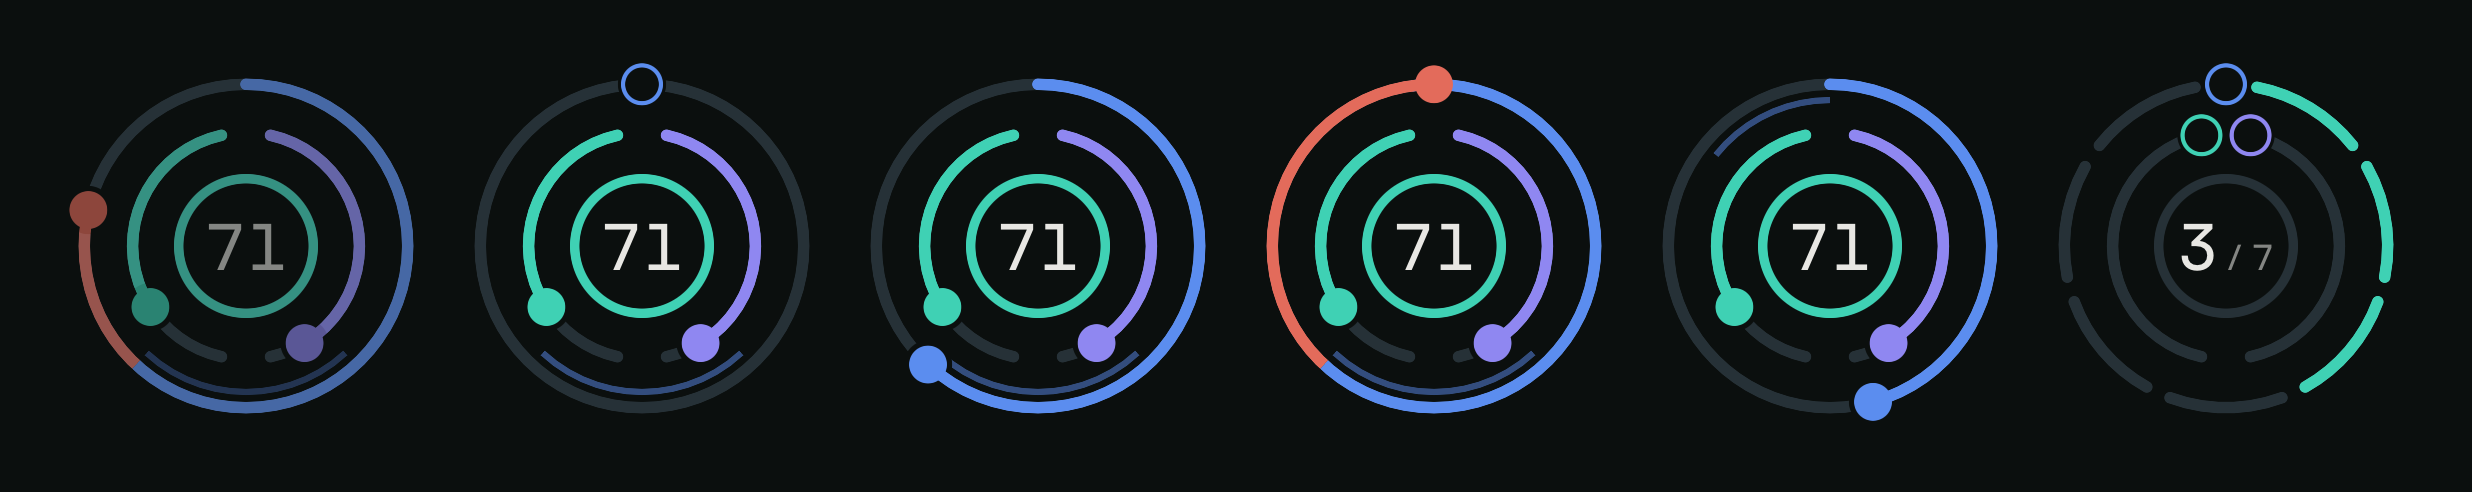
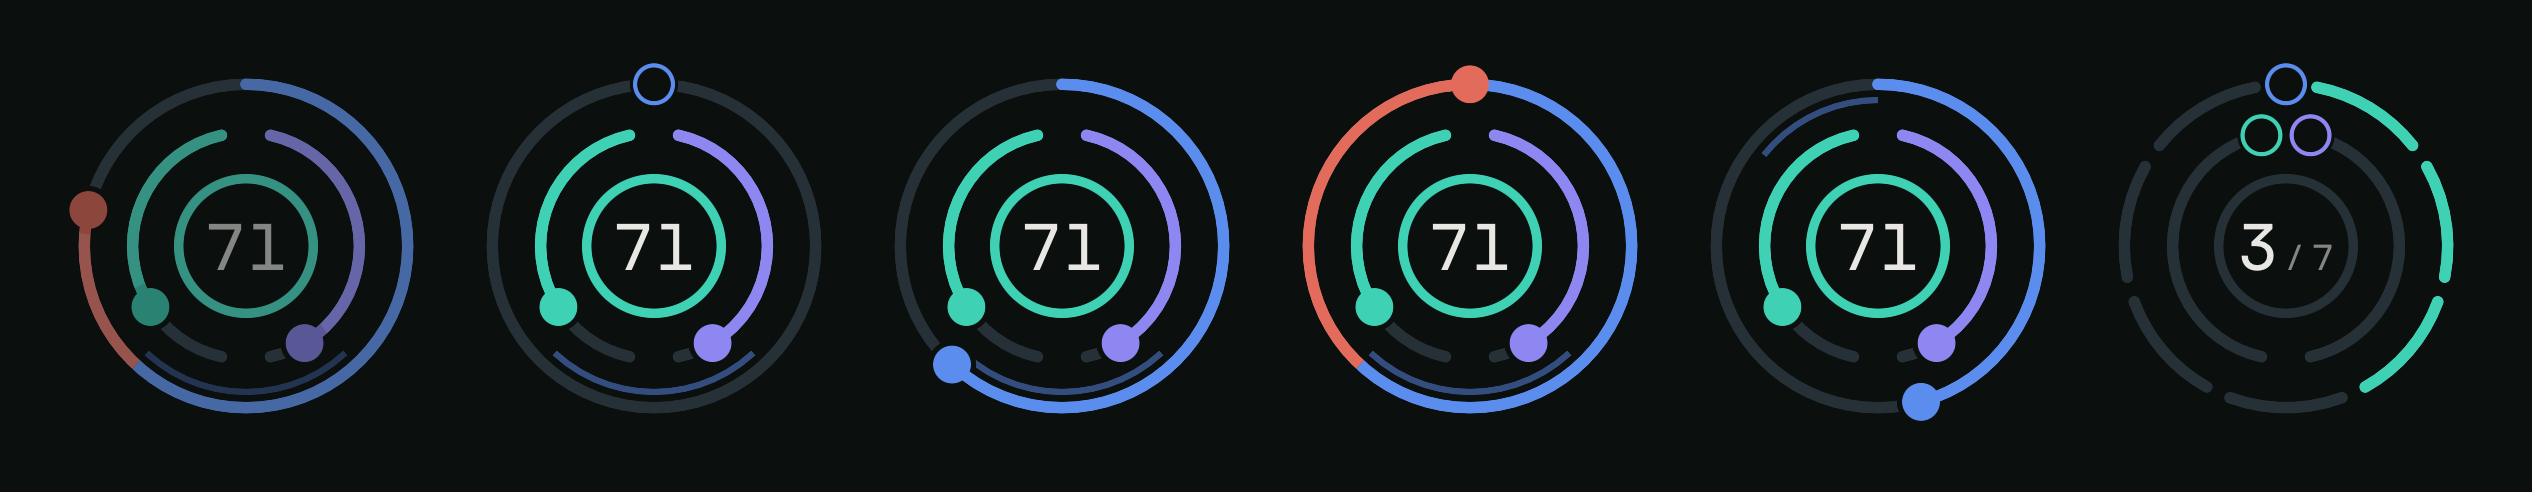
design: strain band animates as one structure, rail cut follows the dot, above-range sentence

diff --git a/Shared/OrbitGaugeDrawing.swift b/Shared/OrbitGaugeDrawing.swift
@@ -143,7 +143,7 @@ struct OrbitGaugeMarks: View {
             // The strain band's rail under the outer orbit's marks; nothing without a band, a dial with room, or values.
             if let values, OrbitGaugeGeometry.drawsBandRail(values.strainBand, dial: dial) {
                 OrbitGaugeBandRail(band: values.strainBand, dial: dial, colour: palette.strain,
-                                   cut: (degrees: OrbitGaugeGeometry.Orbit.strain.headDegrees(for: values.strainFraction ?? 0),
+                                   cut: (start: 0, sweep: OrbitGaugeGeometry.Orbit.strain.sweep(for: values.strainFraction ?? 0),
                                          radius: m.outerRadius))
             }
             ForEach(OrbitGaugeGeometry.Orbit.allCases, id: \.self) { orbit in
@@ -151,7 +151,7 @@ struct OrbitGaugeMarks: View {
                     segments(calibration, m)
                 }
                 marks(orbit, fraction: values.flatMap { orbit.fraction(of: $0) },
-                      past: orbit == .strain ? values.flatMap { OrbitGaugeGeometry.strainPastBandDegrees(strain: $0.strain, band: $0.strainBand) } : nil,
+                      split: orbit == .strain ? values.flatMap { OrbitGaugeGeometry.strainSplitDegrees(band: $0.strainBand) } : nil,
                       m)
             }
             if let values {
@@ -179,21 +179,24 @@ struct OrbitGaugeMarks: View {
     }
 
     @ViewBuilder
-    private func marks(_ orbit: OrbitGaugeGeometry.Orbit, fraction: Double?, past: Double?,
+    private func marks(_ orbit: OrbitGaugeGeometry.Orbit, fraction: Double?, split: Double?,
                        _ m: OrbitGaugeGeometry.Metrics) -> some View {
         let colour = palette.colour(of: orbit)
         if let fraction {
-            if let past {
-                // Strain beyond today's band: the same arc, turned toward alert past the band's upper end.
+            if let split {
+                // A usable band: one structure whatever the strain is, so a change that crosses the band's end moves
+                // the arc and the dot's colour with it (`OrbitStrainArc`, `OrbitStrainDot`).
                 OrbitStrainArc(radius: m.radius(of: orbit), stroke: m.stroke(of: orbit),
-                               sweep: orbit.sweep(for: fraction), split: past, plain: colour, past: palette.strainPastBand)
+                               sweep: orbit.sweep(for: fraction), split: split, plain: colour, past: palette.strainPastBand)
+                OrbitStrainDot(radius: m.radius(of: orbit), sweep: orbit.sweep(for: fraction), dotRadius: m.dotRadius,
+                               split: split, plain: colour, past: palette.strainPastBand)
             } else {
                 OrbitArc(radius: m.radius(of: orbit), start: orbit.startDegrees, sweep: orbit.sweep(for: fraction))
                     .stroke(colour, style: StrokeStyle(lineWidth: m.stroke(of: orbit), lineCap: .round))
+                OrbitDot(radius: m.radius(of: orbit), start: orbit.startDegrees, sweep: orbit.sweep(for: fraction),
+                         dotRadius: m.dotRadius)
+                    .fill(colour)
             }
-            OrbitDot(radius: m.radius(of: orbit), start: orbit.startDegrees, sweep: orbit.sweep(for: fraction),
-                     dotRadius: m.dotRadius)
-                .fill(past == nil ? colour : palette.strainPastBand)
         } else {
             OrbitDot(radius: m.radius(of: orbit), start: orbit.startDegrees, sweep: 0, dotRadius: m.dotRadius)
                 .stroke(colour, lineWidth: m.hollowStroke)
@@ -224,14 +227,14 @@ extension OrbitGaugeGeometry.Orbit {
 // MARK: strain band (PR 4)
 
 /// The band's rail: a thin butt-capped arc inside the outer orbit, `metricStrain` at `bandRailOpacity`, with the air around
-/// the strain dot cut out of it the way the tracks are (`cut`: where the dot is, degrees and radius of its orbit).
+/// the strain dot cut out of it the way the tracks are (`cut`: the dot's start and sweep on its orbit, like the tracks').
 /// Draws nothing for an empty band.
 struct OrbitGaugeBandRail: View {
     let band: ClosedRange<Double>?
     let dial: CGFloat
     let colour: Color
     var opacity = OrbitGaugeGeometry.bandRailOpacity
-    let cut: (degrees: Double, radius: CGFloat)
+    let cut: (start: Double, sweep: Double, radius: CGFloat)
 
     var body: some View {
         let m = OrbitGaugeGeometry.metrics(forDial: dial)
@@ -239,7 +242,7 @@ struct OrbitGaugeBandRail: View {
             if let rail = OrbitGaugeGeometry.bandRail(for: band) {
                 OrbitArc(radius: m.bandRadius, start: rail.start, sweep: rail.sweep)
                     .stroke(colour.opacity(opacity), style: StrokeStyle(lineWidth: m.bandStroke, lineCap: .butt))
-                OrbitDot(radius: cut.radius, start: cut.degrees, sweep: 0, dotRadius: m.dotRadius + m.dotAir)
+                OrbitDot(radius: cut.radius, start: cut.start, sweep: cut.sweep, dotRadius: m.dotRadius + m.dotAir)
                     .fill(.black)
                     .blendMode(.destinationOut)
             }
@@ -248,10 +251,12 @@ struct OrbitGaugeBandRail: View {
     }
 }
 
-/// The strain arc beyond its band: one stroked arc drawn twice, `plain` up to `split` (degrees from the top) and `past`
-/// beyond it, each clipped to its side of a radial line, so the join is straight, the caps stay round at both ends and
-/// there is no fringe of one colour under the edge of the other.
-struct OrbitStrainArc: View {
+/// The strain arc with a band: one stroked arc drawn twice, `plain` up to `split` (the band's upper end, degrees from the
+/// top) and `past` beyond it, each clipped to its side of a radial line, so the join is straight, the caps stay round at
+/// both ends and there is no fringe of one colour under the edge of the other. Always this structure for a usable band,
+/// whatever the strain: it is `Animatable` in the sweep, so the past layer grows and shrinks with the arc and nothing swaps
+/// when a change crosses the band's end. Below the split the past layer is empty.
+struct OrbitStrainArc: View, Animatable {
     var radius: CGFloat
     var stroke: CGFloat
     var sweep: Double
@@ -259,25 +264,55 @@ struct OrbitStrainArc: View {
     var plain: Color
     var past: Color
 
+    var animatableData: Double {
+        get { sweep }
+        set { sweep = newValue }
+    }
+
     var body: some View {
         let arc = OrbitArc(radius: radius, start: 0, sweep: sweep)
             .stroke(style: StrokeStyle(lineWidth: stroke, lineCap: .round))
         ZStack {
             // The start cap reaches a few degrees before the top (it stays `plain`); the far end is under the dot.
             arc.foregroundStyle(plain).clipShape(OrbitWedge(from: -8, to: split))
-            arc.foregroundStyle(past).clipShape(OrbitWedge(from: split, to: min(sweep + 4, 357)))
+            if sweep > split {
+                arc.foregroundStyle(past).clipShape(OrbitWedge(from: split, to: min(sweep + 4, 357)))
+            }
         }
     }
 }
 
-/// A pie slice from the centre, `from` to `to` degrees clockwise from the top, larger than the rect.
+/// The strain dot with a band: `past` once its head is beyond `split`, `plain` before, decided from the animated sweep
+/// (it switches at the moment the head crosses the line, not at the end of the animation).
+struct OrbitStrainDot: View, Animatable {
+    var radius: CGFloat
+    var sweep: Double
+    var dotRadius: CGFloat
+    var split: Double
+    var plain: Color
+    var past: Color
+
+    var animatableData: Double {
+        get { sweep }
+        set { sweep = newValue }
+    }
+
+    var body: some View {
+        OrbitDot(radius: radius, start: 0, sweep: sweep, dotRadius: dotRadius)
+            .fill(sweep > split ? past : plain)
+    }
+}
+
+/// A pie slice from the centre, `from` to `to` degrees clockwise from the top, larger than the rect. Empty when `to` does
+/// not pass `from` (it would otherwise wrap the long way round).
 struct OrbitWedge: Shape {
     var from: Double
     var to: Double
 
     func path(in rect: CGRect) -> Path {
-        let centre = CGPoint(x: rect.midX, y: rect.midY)
         var p = Path()
+        guard to > from else { return p }
+        let centre = CGPoint(x: rect.midX, y: rect.midY)
         p.move(to: centre)
         p.addArc(center: centre, radius: hypot(rect.width, rect.height),
                  startAngle: .degrees(from - 90), endAngle: .degrees(to - 90), clockwise: false)

diff --git a/Ryft/Design/OrbitGauge.swift b/Ryft/Design/OrbitGauge.swift
@@ -405,6 +405,10 @@ struct OrbitGauge: View {
         guard let band = OrbitGaugeGeometry.clampedBand(band) else {
             return String(localized: "Strain \(strainText(strain)) of 21")
         }
+        // Above the band the sentence says so: the arc's colour is never the only carrier.
+        if OrbitGaugeGeometry.strainPastBandDegrees(strain: strain, band: band) != nil {
+            return String(localized: "Strain \(strainText(strain)) of 21, above today's recommended range \(bandText(band.lowerBound)) to \(bandText(band.upperBound))")
+        }
         return String(localized: "Strain \(strainText(strain)) of 21, today's recommended range \(bandText(band.lowerBound)) to \(bandText(band.upperBound))")
     }
 
@@ -525,7 +529,6 @@ private struct WidePair<Content: View>: View {
     }
 }
 
-
 #Preview("OrbitGauge · calibrating 0 / 3 / 7", traits: .sizeThatFitsLayout) {
     // Static (`animatesFill: false`): the previews and the shots never depend on time.
     WidePair {
@@ -579,11 +582,13 @@ extension OrbitGaugeValues {
     }
 }
 
-#Preview("OrbitGauge · strain band", traits: .sizeThatFitsLayout) {
-    // Synthetic band 8-13: strain 4.0 (below), 9.6 (inside), 16.5 (past), 9.6 without a band; large, medium, small.
-    WidePair {
+/// The strain band previews' content, internal so the shots render exactly what the previews show.
+struct OrbitBandPreviewGrid: View {
+    var body: some View {
+        // Synthetic band 8-13: strain 4.0 (below), 9.6 (inside), 16.5 (past), 9.6 without a band; large, medium, small.
         HStack(alignment: .top, spacing: 12) {
-            ForEach([(Optional(4.0), true), (9.6, true), (16.5, true), (9.6, false)], id: \.0) { strain, banded in
+            ForEach(Array([(Optional(4.0), true), (9.6, true), (16.5, true), (9.6, false)].enumerated()), id: \.offset) { _, entry in
+                let (strain, banded) = entry
                 VStack(spacing: 8) {
                     let values = banded ? OrbitGaugeValues.previewBanded(strain: strain)
                         : OrbitGaugeValues(readiness: 71, recovery: 0.71, sleep: 0.88, strain: strain)
@@ -596,17 +601,28 @@ extension OrbitGaugeValues {
     }
 }
 
-#Preview("OrbitGauge · strain band, other modes", traits: .sizeThatFitsLayout) {
-    // Pending with yesterday's band (dimmed), strain missing (rail only), calibrating (no band), the band's edges.
-    WidePair {
+struct OrbitBandPreviewModes: View {
+    var body: some View {
+        // Pending with yesterday's band (dimmed), strain missing (rail only), the band's upper end, a full ring,
+        // a band past the scale (clamped to 18-21), calibrating (no band).
         HStack(alignment: .top, spacing: 12) {
             OrbitGauge(mode: .pending(previous: .previewBanded(strain: 16.5)), size: .medium, breathes: false)
             OrbitGauge(mode: .scored(.previewBanded(strain: nil)), size: .medium)
             OrbitGauge(mode: .scored(.previewBanded(strain: 13)), size: .medium)
             OrbitGauge(mode: .scored(.previewBanded(strain: 21)), size: .medium)
+            OrbitGauge(mode: .scored(OrbitGaugeValues(readiness: 71, recovery: 0.71, sleep: 0.88, strain: 9.6, strainBand: 18...40)),
+                       size: .medium)
             OrbitGauge(mode: .calibrating(OrbitGaugeCalibration(nights: 3)), size: .medium, animatesFill: false)
         }
     }
+}
+
+#Preview("OrbitGauge · strain band", traits: .sizeThatFitsLayout) {
+    WidePair { OrbitBandPreviewGrid() }
+}
+
+#Preview("OrbitGauge · strain band, other modes", traits: .sizeThatFitsLayout) {
+    WidePair { OrbitBandPreviewModes() }
 }
 
 #Preview("OrbitGauge · strain band · AX3", traits: .sizeThatFitsLayout) {

diff --git a/Ryft/Design/OrbitGaugeEntrance.swift b/Ryft/Design/OrbitGaugeEntrance.swift
@@ -153,7 +153,7 @@ struct OrbitEntranceStage<Settled: View, Centre: View>: View {
             // The band's rail fades in with the tracks (0 to 250 ms), dimmed with the marks while pending.
             if let values, OrbitGaugeGeometry.drawsBandRail(values.strainBand, dial: size.dial) {
                 OrbitGaugeBandRail(band: values.strainBand, dial: size.dial, colour: palette.strain,
-                                   cut: (degrees: positions[.strain]?.degrees ?? 0, radius: positions[.strain]?.radius ?? 0))
+                                   cut: (start: positions[.strain]?.degrees ?? 0, sweep: 0, radius: positions[.strain]?.radius ?? 0))
                     .opacity(OrbitEntranceFrame.eased(elapsed, 0, Self.railFadeEnd) * (mode.isPending ? OrbitGaugeMarks.pendingOpacity : 1))
             }
             marks(frame, m, values, positions, glide)
@@ -221,11 +221,10 @@ struct OrbitEntranceStage<Settled: View, Centre: View>: View {
                 let colour = palette.colour(of: orbit)
                 let position = positions[orbit] ?? (degrees: 0, radius: 0)
                 if let fraction {
-                    let past = orbit == .strain
-                        ? values.flatMap { OrbitGaugeGeometry.strainPastBandDegrees(strain: $0.strain, band: $0.strainBand) } : nil
-                    if let past {
+                    let split = orbit == .strain ? values.flatMap { OrbitGaugeGeometry.strainSplitDegrees(band: $0.strainBand) } : nil
+                    if let split {
                         OrbitStrainArc(radius: m.radius(of: orbit), stroke: m.stroke(of: orbit),
-                                       sweep: orbit.sweep(for: fraction) * glide, split: past,
+                                       sweep: orbit.sweep(for: fraction) * glide, split: split,
                                        plain: colour, past: palette.strainPastBand)
                     } else {
                         OrbitArc(radius: m.radius(of: orbit), start: orbit.startDegrees,
@@ -233,7 +232,7 @@ struct OrbitEntranceStage<Settled: View, Centre: View>: View {
                             .stroke(colour, style: StrokeStyle(lineWidth: m.stroke(of: orbit), lineCap: .round))
                     }
                     // The dot turns with the arc once it is beyond the band.
-                    dotShape(position, m).fill(past.map { position.degrees > $0 } == true ? palette.strainPastBand : colour)
+                    dotShape(position, m).fill(split.map { position.degrees > $0 } == true ? palette.strainPastBand : colour)
                         .opacity(min(frame.flight(orbit) * 4, 1))
                 } else {
                     dotShape(position, m).stroke(colour, lineWidth: m.hollowStroke)

diff --git a/Shared/OrbitGaugeGeometry.swift b/Shared/OrbitGaugeGeometry.swift
@@ -158,6 +158,10 @@ enum OrbitGaugeGeometry {
         return min(strain, OrbitGaugeValues.strainScale) > upper ? rail.end : nil
     }
 
+    /// The radial line where the strain arc may turn toward alert: the band's upper end, whether or not strain is past
+    /// it (the drawing is one structure and the line does not move with strain). nil: no usable band.
+    static func strainSplitDegrees(band: ClosedRange<Double>?) -> Double? { bandRail(for: band)?.end }
+
     /// The arc and dot's colour decision, for tests and the drawing alike.
     enum StrainTone: Equatable { case plain, pastBand }
 

diff --git a/docs/work/2026-10-29-orbit-gauge/design.md b/docs/work/2026-10-29-orbit-gauge/design.md
@@ -304,3 +304,18 @@ the static drawing (the stage ends in `settled`); the entrance tests pass unchan
 
 **Rejected.** A 60 / 40 mix (mauve, dE 52 for deutan); a gradient along the arc (no clear "this is where the range ended"); a dashed rail
 (noise at medium); the rail on the outer track itself (it would hide the empty scale); keeping the rail at `.small`; 0.35 opacity (1.7:1).
+
+**Review round 1 (animation, cut-out, sentence).**
+- *One structure.* With a usable band the strain arc is always `OrbitStrainArc` + `OrbitStrainDot` (split = the band's upper end,
+  `strainSplitDegrees`), whatever the strain is; only a nil or unusable band keeps the old `OrbitArc` + `OrbitDot` (nil is byte-identical to
+  `main`: the 84-render hash check, repeated after this change, matches). Both are `Animatable` in the sweep, so the past layer grows and
+  shrinks with the arc and a change that crosses the band's end moves continuously, with no swap and no crossfade. `OrbitWedge` is empty
+  when `to <= from` (it used to wrap the long way: the whole arc turned `alert` mid-glide in the entrance).
+- *The dot's colour* is decided from the animated sweep: it switches at the instant its head crosses the split (hard switch, not a blend), on
+  the way up and the way down. In the entrance the dot position's degrees decide the same way.
+- *Rail cut-out* uses `start: 0, sweep:` like the tracks (it follows the dot's animation); in the entrance the cut sits at the dot's flying position.
+- *VoiceOver* says "above" when the arc has turned red (colour is not the only carrier): "Strain 16.5 of 21, above today's recommended range 8 to 13"
+  (key `Strain %@ of 21, above today's recommended range %@ to %@`). Inside or below: "Strain 9.6 of 21, today's recommended range 8 to 13".
+- *Rail opacity stays 0.5* (dark 2.33:1 on the background, light 2.09:1): it is the target's scale, the value is the arc, and the range is spoken; 0.6
+  would be 2.85 dark. Not changed, because the tests pin 0.5 and 3:1 is out of reach without competing with the arc.
+- *Shots* are rendered from the preview views themselves (`OrbitBandPreviewGrid`, `OrbitBandPreviewModes`); `pr4-entrance` adds t = 0.65 / 0.72 / 0.8 s.
